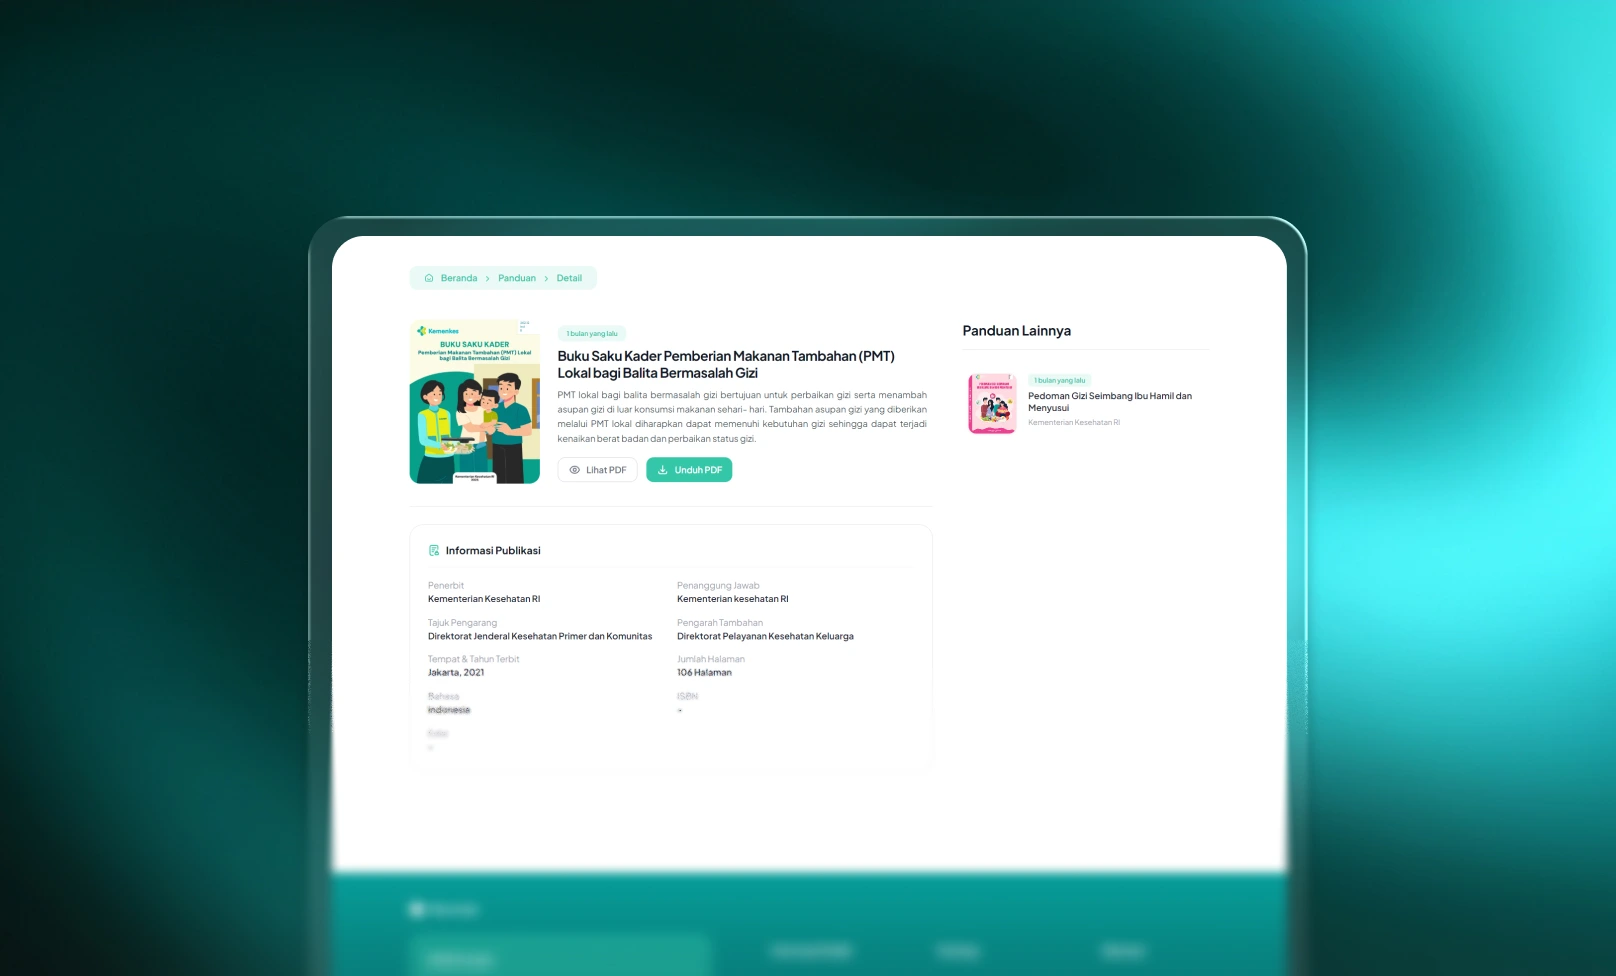
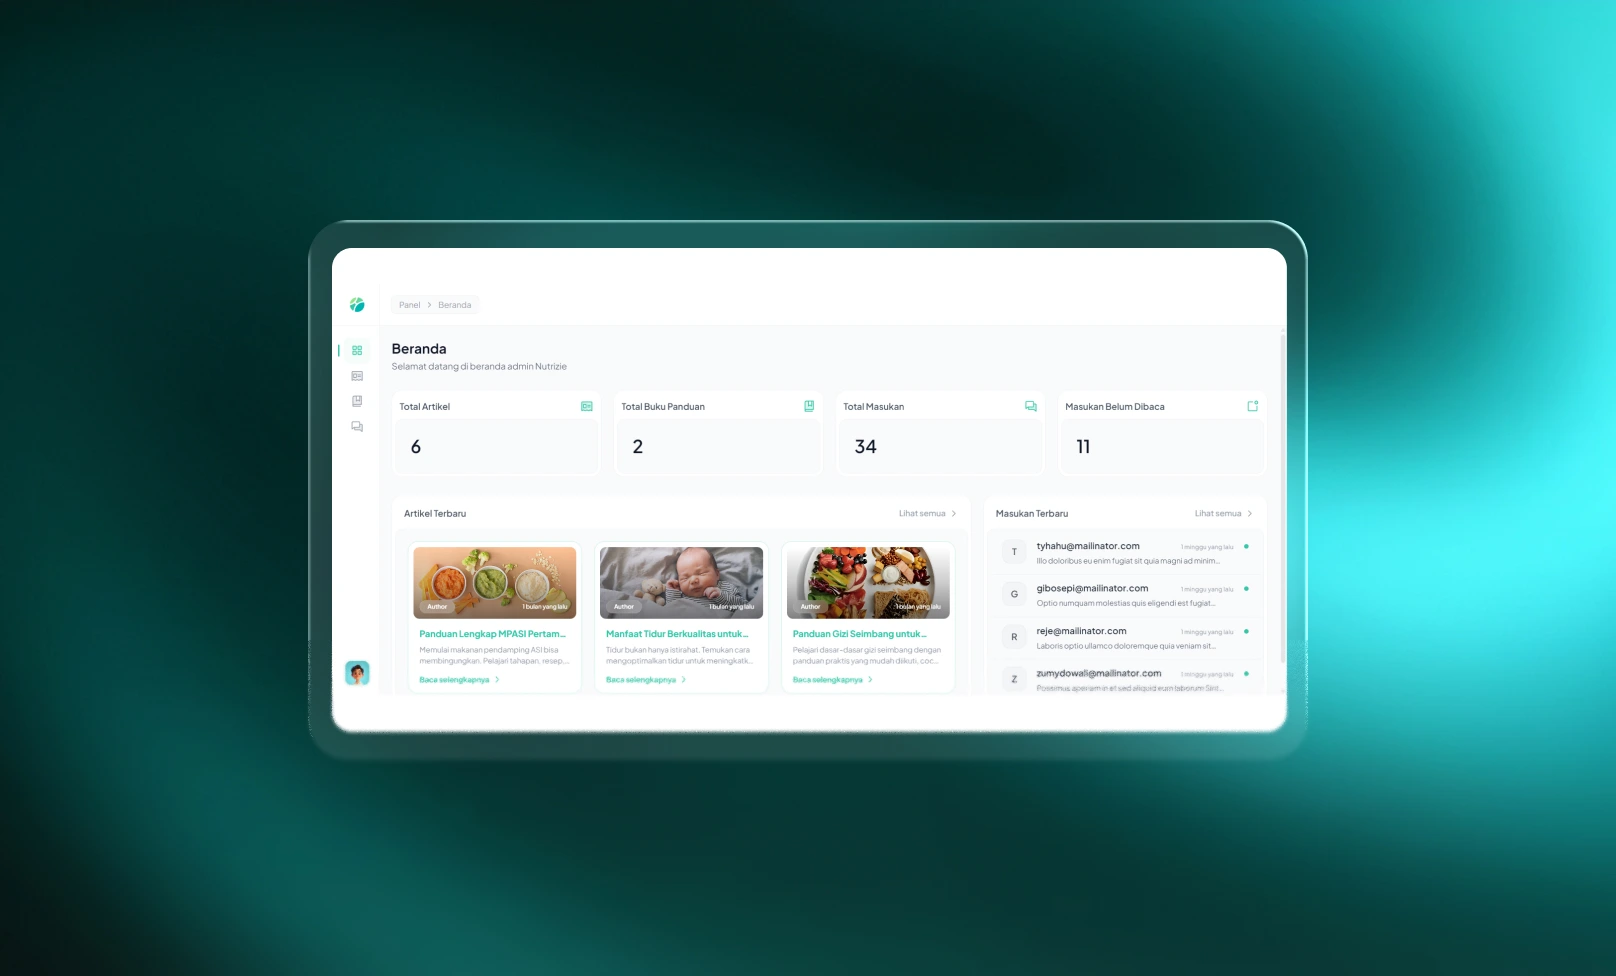
feat: update data

diff --git a/src/components/Techbadge/index.jsx b/src/components/Techbadge/index.jsx
@@ -1,5 +1,5 @@
 import techstack from "../../data/techstack"
-import { SiAdobeillustrator, SiAdobephotoshop, SiAlpinedotjs, SiBootstrap, SiCss3, SiFigma, SiFilament, SiGit, SiGithub, SiHtml5, SiJavascript, SiLaravel, SiMysql, SiNpm, SiPhp, SiPython, SiReact, SiTailwindcss, SiVite } from "react-icons/si"
+import { SiAdobeillustrator, SiAdobephotoshop, SiAlpinedotjs, SiBootstrap, SiCss3, SiFigma, SiFilament, SiGit, SiGithub, SiHtml5, SiInertia, SiJavascript, SiLaravel, SiMysql, SiNpm, SiPhp, SiPython, SiReact, SiTailwindcss, SiVite } from "react-icons/si"
 import { motion } from "framer-motion"
 import {
   Tooltip,
@@ -29,56 +29,57 @@ const Customtkinter = ({ className }) => (
 );
 
 const IconMap = {
-    "HTML": SiHtml5,
-    "CSS": SiCss3,
-    "JS": SiJavascript,
-    "PHP": SiPhp,
-    "Laravel": SiLaravel,
-    "MySQL": SiMysql,
-    "React": SiReact,
-    "TailwindCSS": SiTailwindcss,
-    "Bootstrap": SiBootstrap,
-    "Git": SiGit,
-    "GitHub": SiGithub,
-    "Vite": SiVite,
-    "NPM": SiNpm,
-    "Figma": SiFigma,
-    "Photoshop": SiAdobephotoshop,
-    "Illustrator": SiAdobeillustrator,
-    "AlpineJS": SiAlpinedotjs,
-    "Filament": SiFilament,
-    "Python": SiPython,    
-    "Customtkinter": Customtkinter,
+  "HTML": SiHtml5,
+  "CSS": SiCss3,
+  "JS": SiJavascript,
+  "PHP": SiPhp,
+  "Laravel": SiLaravel,
+  "MySQL": SiMysql,
+  "React": SiReact,
+  "TailwindCSS": SiTailwindcss,
+  "Bootstrap": SiBootstrap,
+  "Git": SiGit,
+  "GitHub": SiGithub,
+  "Vite": SiVite,
+  "NPM": SiNpm,
+  "Figma": SiFigma,
+  "Photoshop": SiAdobephotoshop,
+  "Illustrator": SiAdobeillustrator,
+  "AlpineJS": SiAlpinedotjs,
+  "Filament": SiFilament,
+  "Python": SiPython,
+  "Customtkinter": Customtkinter,
+  "Inertia": SiInertia
 };
 
-const Techbadge = ({variants, items, iconSize = "text-3xl", roundedSize = "rounded-md"}) => {
+const Techbadge = ({ variants, items, iconSize = "text-3xl", roundedSize = "rounded-md" }) => {
 
-    const displayItems = items || techstack.map(t => t.icon);
+  const displayItems = items || techstack.map(t => t.icon);
 
-    return (
-        <>
-            <div className="relative flex justify-center items-center">
-                <div variants={variants} className="flex flex-wrap lg:max-w-lg xs:max-w-full justify-left items-center gap-2.5">
-                    {displayItems.map((techName) => {
-                        const Icon = IconMap[techName];
-                        if (!Icon) return null;
-                        return (
-                            <Tooltip key={techName}>
-                                <TooltipTrigger asChild>
-                                    <motion.div variants={variants} className="relative flex justify-center items-center">
-                                        <Icon className={`${iconSize} text-gray-400/70 p-1 ${roundedSize} bg-gray-100 dark:bg-neutral-900 dark:text-neutral-500`}/>                                
-                                    </motion.div>
-                                </TooltipTrigger>
-                                <TooltipContent className="">
-                                    <p className="font-main text-xs">{techName}</p>
-                                </TooltipContent>
-                            </Tooltip>
-                        );
-                    })}
-                </div>
-            </div>
-        </>
-    )
+  return (
+    <>
+      <div className="relative flex justify-center items-center">
+        <div variants={variants} className="flex flex-wrap lg:max-w-lg xs:max-w-full justify-left items-center gap-2.5">
+          {displayItems.map((techName) => {
+            const Icon = IconMap[techName];
+            if (!Icon) return null;
+            return (
+              <Tooltip key={techName}>
+                <TooltipTrigger asChild>
+                  <motion.div variants={variants} className="relative flex justify-center items-center">
+                    <Icon className={`${iconSize} text-gray-400/70 p-1 ${roundedSize} bg-gray-100 dark:bg-neutral-900 dark:text-neutral-500`} />
+                  </motion.div>
+                </TooltipTrigger>
+                <TooltipContent className="">
+                  <p className="font-main text-xs">{techName}</p>
+                </TooltipContent>
+              </Tooltip>
+            );
+          })}
+        </div>
+      </div>
+    </>
+  )
 }
 
 export default Techbadge

diff --git a/src/data/showcase.js b/src/data/showcase.js
@@ -33,6 +33,8 @@ import Nutrizie3 from "../assets/nutrizie/nutrizie-car-3.webp"
 import Nutrizie4 from "../assets/nutrizie/nutrizie-car-4.webp"
 import Nutrizie5 from "../assets/nutrizie/nutrizie-car-5.webp"
 import Nutrizie6 from "../assets/nutrizie/nutrizie-car-6.webp"
+import Nutrizie7 from "../assets/nutrizie/nutrizie-car-7.webp"
+import Nutrizie8 from "../assets/nutrizie/nutrizie-car-8.webp"
 
 // Labhub
 import Labhub1 from "../assets/labhub/labhub-car-1.webp"
@@ -152,13 +154,15 @@ const showcase = [
             Nutrizie3,
             Nutrizie4,
             Nutrizie5,
-            Nutrizie6
+            Nutrizie6,
+            Nutrizie7,
+            Nutrizie8
         ],
         description: {
             en: "Nutrizie is a website that contains nutritional information equipped with a toddler nutritional status calculation system using the z-score method according to standards. This website was created as an effort to reduce stunting in Indonesia through the dissemination of nutritional information and flexibility in checking the nutritional status of toddlers.",
             id: "Nutrizie merupakan sebuah web edukasi yang tidak hanya menyediakan informasi gizi, tetapi juga dilengkapi dengan sistem perhitungan status gizi balita menggunakan metode z-score sesuai standar. Web ini dibuat sebagai upaya untuk mengurangi stunting di Indonesia melalui penyebaran informasi gizi dan fleksibilitas dalam mengecek status gizi balita."
         },
-        techstack: ["PHP", "JS", "Laravel", "MySQL", "TailwindCSS", "Vite", "Filament", "AlpineJS"],
+        techstack: ["PHP", "JS", "Laravel", "React", "Inertia", "MySQL", "TailwindCSS", "Vite", "AlpineJS"],
         role: {
             en: ["Fullstack Web Developer", "UI/UX Designer"],
             id: ["Fullstack Web Developer", "Desainer UI/UX"]

diff --git a/src/data/techstack.js b/src/data/techstack.js
@@ -1,89 +1,94 @@
 
 const techstack = [
-    {   
+    {
         id: 1,
         name: "HTML",
         icon: "HTML",
     },
-    {   
+    {
         id: 2,
         name: "CSS",
         icon: "CSS",
     },
-    {   
+    {
         id: 3,
         name: "JavaScript",
         icon: "JS",
     },
-    {   
+    {
         id: 4,
         name: "PHP",
         icon: "PHP",
-    },    
+    },
     {
         id: 5,
         name: "MySQL",
         icon: "MySQL",
     },
-    {   
+    {
         id: 6,
         name: "Laravel",
         icon: "Laravel",
     },
-    {   
+    {
         id: 7,
         name: "React",
         icon: "React",
     },
-    {   
+    {
         id: 8,
         name: "Tailwind CSS",
         icon: "TailwindCSS",
     },
-    {   
+    {
         id: 9,
         name: "Bootstrap",
         icon: "Bootstrap",
     },
-    {   
+    {
         id: 10,
         name: "Git",
         icon: "Git",
-    },    
-    {   
+    },
+    {
         id: 11,
         name: "GitHub",
         icon: "GitHub",
     },
-    {   
+    {
         id: 12,
         name: "Vite",
         icon: "Vite",
     },
-    {   
+    {
         id: 13,
         name: "NPM",
         icon: "NPM",
     },
-    {   
+    {
         id: 14,
         name: "Figma",
         icon: "Figma",
-    },      
-    {   
+    },
+    {
         id: 15,
         name: "Photoshop",
         icon: "Photoshop",
     },
-    {   
+    {
         id: 16,
         name: "Illustrator",
         icon: "Illustrator",
-    },    
+    },
     {
         id: 17,
         name: "Python",
         icon: "Python",
+    },
+    {
+        id: 18,
+        name: "Inertia",
+        icon: "Inertia"
     }
 ]
 
